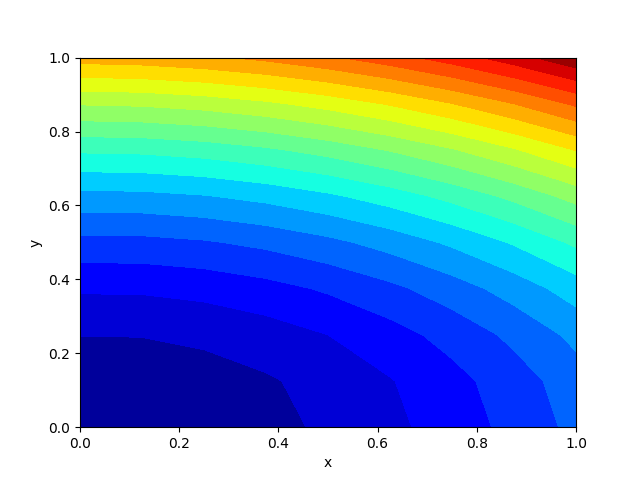
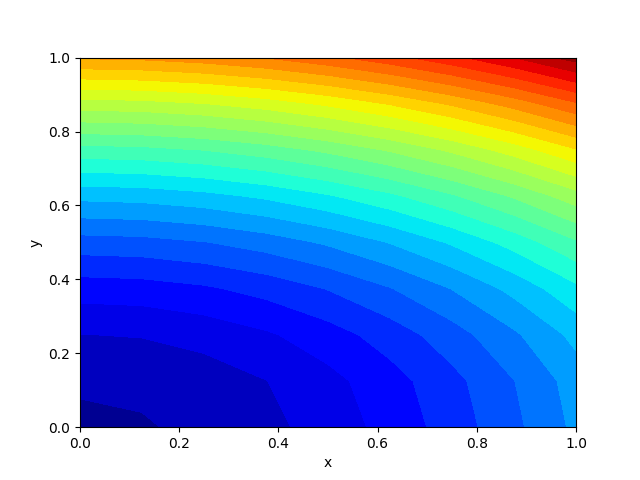
Adjust NN parameters.

diff --git a/src/dl_solver_heat2d.py b/src/dl_solver_heat2d.py
@@ -35,16 +35,16 @@ def solve_heat_with_dl(lightweight=False):
         geomtime,
         _pde,
         ic_bcs=[ic, bc],
-        num_domain=400,
-        num_boundary=200,
-        num_initial=100,
+        num_domain=500,
+        num_boundary=300,
+        num_initial=200,
         num_test=10000,
         solution=_func,
     )
 
     # inputs (2D Heat Eqn) - t, x, y
     # output (solution) - u(t, x, y)
-    layer_size = [3] + [32] + [64] + [256] + [64] + [32] + [1]
+    layer_size = [3] + [128] + [256] + [521] + [256] + [128] + [1]
     activation = 'tanh'
     initializer = 'Glorot uniform'
     net = dde.maps.FNN(layer_size, activation, initializer)

diff --git a/src/dl_solver_poisson.py b/src/dl_solver_poisson.py
@@ -45,14 +45,14 @@ def solve_poisson_with_dl(lightweight=False):
     )
 
     # NN
-    layer_size = [2] + [32] + [64] + [256] + [64] + [32] + [1]
-    activation = 'tanh'
+    layer_size = [2] + [128] + [256] + [512] + [256] + [128] + [1]
+    activation = 'relu'
     initializer = 'Glorot uniform'
     net = dde.maps.FNN(layer_size, activation, initializer)
     model = dde.Model(data, net)
 
     # Train NN
-    model.compile('adam', lr=0.001)
+    model.compile('adam', lr=0.0005)
 
     losshistory, train_state = model.train(epochs=10000)
 
